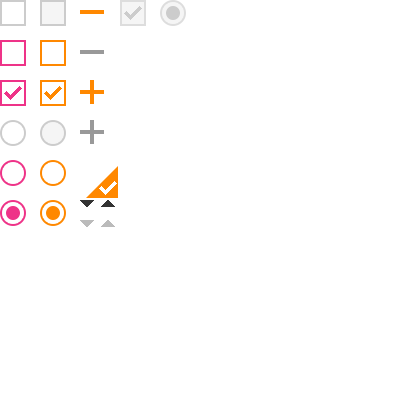
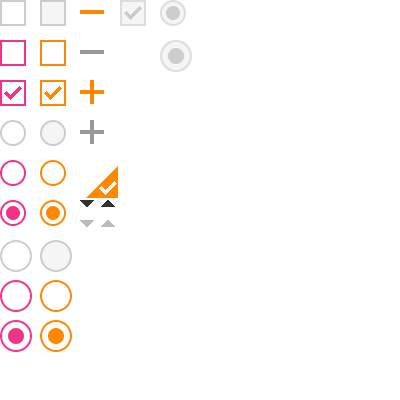
大尺寸单选按钮

Changed region(s): [[0.0, 0.6, 0.18, 0.9], [0.39, 0.09, 0.48, 0.18]]

diff --git a/assets/css/ui.css b/assets/css/ui.css
@@ -59,6 +59,30 @@
 
 .nova-radio-label-orange:hover .nova-checked.disabled { background-position: -80px 0; }
 
+.nova-radio-label-bg .nova-radio { width: 16px; height: 16px; background-position: 0 -120px; }
+
+.nova-radio-label-bg .nova-radio.nova-checked { background-position: 0 -160px; }
+
+.nova-radio-label-bg .nova-radio.nova-checked.disabled { background-position: -80px -20px; }
+
+.nova-radio-label-bg:hover .nova-radio { background-position: 0 -140px; }
+
+.nova-radio-label-bg:hover .nova-radio.nova-checked { background-position: 0 -160px; }
+
+.nova-radio-label-bg:hover .nova-checked.disabled { background-position: -80px -20px; }
+
+.nova-radio-label-bg.nova-radio-label-orange .nova-radio { background-position: 0 -120px; }
+
+.nova-radio-label-bg.nova-radio-label-orange .nova-radio.nova-checked { background-position: -20px -160px; }
+
+.nova-radio-label-bg.nova-radio-label-orange .nova-radio.nova-checked.disabled { background-position: -80px -20px; }
+
+.nova-radio-label-bg.nova-radio-label-orange:hover .nova-radio { background-position: -20px -140px; }
+
+.nova-radio-label-bg.nova-radio-label-orange:hover .nova-radio.nova-checked { background-position: -20px -160px; }
+
+.nova-radio-label-bg.nova-radio-label-orange:hover .nova-checked.disabled { background-position: -80px -20px; }
+
 .nova-select { cursor: default; width: 188px; line-height: 28px; }
 
 .nova-select.opened { position: relative; }

diff --git a/scss/ui.scss b/scss/ui.scss
@@ -133,6 +133,56 @@ $ui-bg2x: url(../../img/lv/ui@2x.png);
   }
 }
 
+.nova-radio-label-bg {
+
+  .nova-radio {
+    width: 16px;
+    height: 16px;
+    background-position: 0 -120px;
+    &.nova-checked {
+      background-position: 0 -160px;
+    }
+    &.nova-checked.disabled {
+      background-position: -80px -20px;
+    }
+  }
+  &:hover {
+    .nova-radio {
+      background-position: 0 -140px;
+    }
+    .nova-radio.nova-checked {
+      background-position: 0 -160px;
+    }
+    .nova-checked.disabled {
+      background-position: -80px -20px;
+    }
+  }
+}
+
+.nova-radio-label-bg.nova-radio-label-orange {
+
+  .nova-radio {
+    background-position: 0 -120px;
+    &.nova-checked {
+      background-position: -20px -160px;
+    }
+    &.nova-checked.disabled {
+      background-position: -80px -20px;
+    }
+  }
+  &:hover {
+    .nova-radio {
+      background-position: -20px -140px;
+    }
+    .nova-radio.nova-checked {
+      background-position: -20px -160px;
+    }
+    .nova-checked.disabled {
+      background-position: -80px -20px;
+    }
+  }
+}
+
 .nova-select {
   cursor: default;
   width: 188px;

diff --git a/js/ui.js b/js/ui.js
@@ -47,7 +47,8 @@
 
     Factory.defaults = {
         target: "body",
-        template: template
+        template: template,
+        radioClassName: ''
     };
 
     function UI(options) {
@@ -232,6 +233,7 @@
         },
 
         radioRender: function () {
+            var self = this;
             var $labels = $(this.options.target).find(".nova-radio-label");
             var $inputs = $labels.find("input[type=radio]");
             var $radios = $labels.find(".nova-radio");
@@ -243,7 +245,9 @@
             $inputs.each(function (index, ele) {
                 var $ele = $(ele);
                 var checked = $ele.prop("checked");
-                var $radio = $ele.parents(".nova-radio-label").find(".nova-radio");
+                var $label = $ele.parents(".nova-radio-label");
+                $label.addClass(self.options.radioClassName);
+                var $radio = $label.find(".nova-radio");
                 if (checked) {
                     $radio.addClass("nova-checked");
                 } else {

diff --git a/gulpfile.js b/gulpfile.js
@@ -21,4 +21,6 @@ gulp.task('toPic', ['sass'], function () {
         .pipe(gulp.dest(PATH_CONFIG.picSvnPath + '/js' + PATH_CONFIG.projectPath));
     gulp.src('assets/css/**/*.css')
         .pipe(gulp.dest(PATH_CONFIG.picSvnPath + '/styles' + PATH_CONFIG.projectPath));
+    gulp.src('img/**/*.png')
+        .pipe(gulp.dest(PATH_CONFIG.picSvnPath + '/img'));
 });
